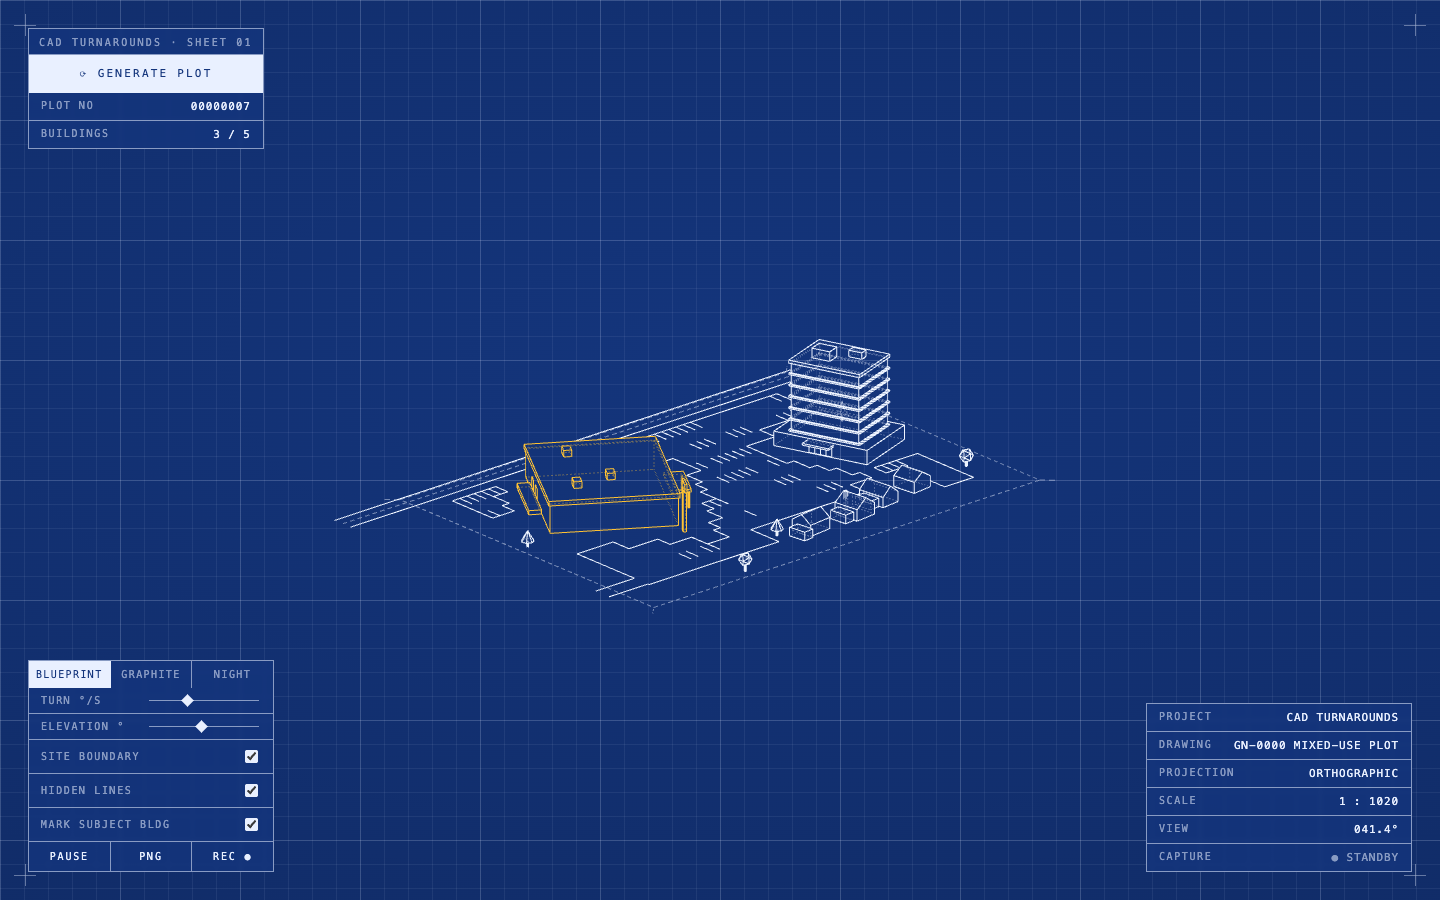
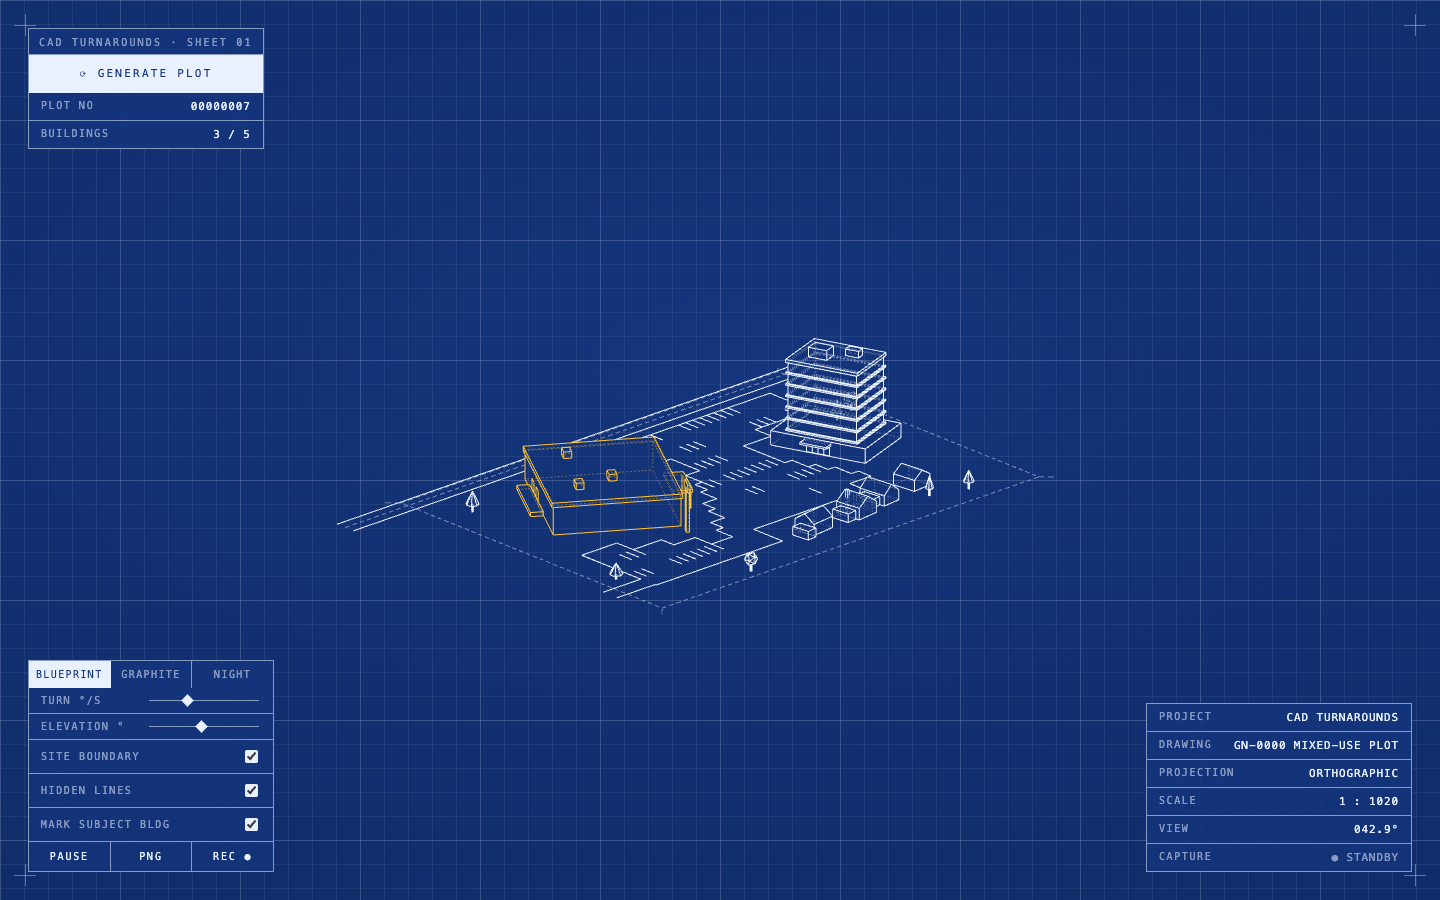
Keep only the largest connected parking lot patch
Connectivity pass over the stall runs (adjacent strips connect where
their x-ranges overlap by a stall width) drops orphaned tarmac fragments
so the shared lot is always one contiguous shape. Refresh hero screenshot.

Changed region(s): [[0.2188, 0.3733, 0.6875, 0.6844]]

diff --git a/src/generator.js b/src/generator.js
@@ -478,6 +478,35 @@ export function buildPlot({ seed = randomSeed(), maxBuildings = 5, materials }) 
     while (strips.length && !strips[strips.length - 1].runs.length) strips.pop();
     if (!strips.length) return [];
 
+    // keep only the largest connected patch of tarmac — no orphan fragments
+    const nodes = [];
+    strips.forEach((s, si) => s.runs.forEach(r => nodes.push({ si, r, comp: -1 })));
+    const touches = (a, b) => Math.min(a[1], b[1]) - Math.max(a[0], b[0]) >= stall;
+    let comps = 0;
+    for (const n of nodes) {
+      if (n.comp !== -1) continue;
+      n.comp = comps;
+      const stack = [n];
+      while (stack.length) {
+        const cur = stack.pop();
+        for (const m of nodes)
+          if (m.comp === -1 && Math.abs(m.si - cur.si) === 1 && touches(m.r, cur.r)) {
+            m.comp = comps; stack.push(m);
+          }
+      }
+      comps++;
+    }
+    const area = new Array(comps).fill(0);
+    for (const n of nodes) area[n.comp] += (n.r[1] - n.r[0]) * strips[n.si].h;
+    const main = area.indexOf(Math.max(...area));
+    strips.forEach((s, si) => {
+      s.runs = s.runs.filter(r =>
+        nodes.some(n => n.si === si && n.r === r && n.comp === main));
+    });
+    while (strips.length && !strips[0].runs.length) strips.shift();
+    while (strips.length && !strips[strips.length - 1].runs.length) strips.pop();
+    if (!strips.length) return [];
+
     const pts = [];
     const H = (xa, xb, zz) => { if (xb - xa > 0.01) pts.push(xa, 0, zz, xb, 0, zz); };
     const V = (xx, za, zb) => { if (zb - za > 0.01) pts.push(xx, 0, za, xx, 0, zb); };